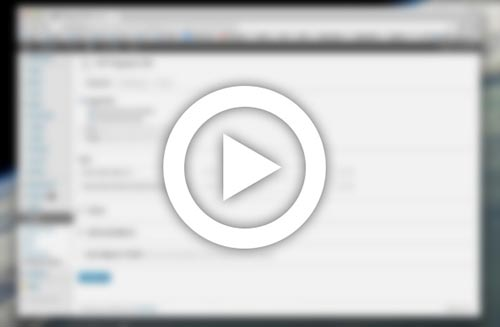
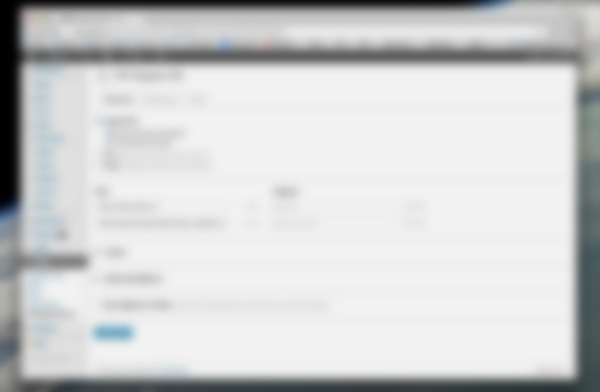
Refine video image style.

Changed region(s): [[0.3, 0.3058, 0.69, 0.7034], [0.36, 0.6728, 0.6, 0.7951], [0.39, 0.2446, 0.63, 0.367]]

diff --git a/asset/css/styles.css b/asset/css/styles.css
@@ -81,6 +81,47 @@ p.submit img {
 #wpmdb-sidebar .author p {
   margin: 0;
 }
+#wpmdb-sidebar .video {
+  position: relative;
+  display: block;
+}
+#wpmdb-sidebar .video:before, #wpmdb-sidebar .video:after {
+  position: absolute;
+  content: " ";
+  margin: auto;
+  left: 0;
+  right: 0;
+  top: 0;
+  bottom: 0;
+}
+#wpmdb-sidebar .video:before {
+  width: 60px;
+  height: 60px;
+  -webkit-border-radius: 60px;
+  -moz-border-radius: 60px;
+  -ms-border-radius: 60px;
+  -o-border-radius: 60px;
+  border-radius: 60px;
+  filter: progid:DXImageTransform.Microsoft.Alpha(Opacity=80);
+  opacity: 0.8;
+  border: 1px solid #ddd;
+  background-color: #fff;
+  z-index: 2;
+}
+#wpmdb-sidebar .video:after {
+  filter: progid:DXImageTransform.Microsoft.Alpha(Opacity=80);
+  opacity: 0.8;
+  border: 20px solid transparent;
+  border-top-width: 12px;
+  border-bottom-width: 12px;
+  border-left-color: #333;
+  background: transparent;
+  display: block;
+  left: 23.4375px;
+  width: 0px;
+  height: 0px;
+  z-index: 3;
+}
 #wpmdb-sidebar .subscribe h2 {
   padding: 0;
   margin: 0;

diff --git a/asset/sass/styles.scss b/asset/sass/styles.scss
@@ -1,3 +1,5 @@
+@import "compass";
+
 #migrate-form {
 	padding-top: 10px;
 }
@@ -91,6 +93,46 @@ p.submit {
 
 		p {
 			margin: 0;
+		}
+	}
+
+	.video {
+		position: relative;
+		display: block;
+		$size: 60px;
+
+		&:before, &:after {
+		    position: absolute;
+		    content: " ";
+		    margin: auto;
+		    left: 0;
+		    right: 0;
+		    top: 0;
+		    bottom: 0;
+		}
+
+		&:before {
+		    width: $size;
+		    height: $size;
+		    @include border-radius($size);
+		    @include opacity(0.8);
+		    border: 1px solid #ddd;
+		    background-color: #fff;
+		    z-index: 2;
+		}
+
+		&:after {
+			@include opacity(0.8);
+		    border: $size/3 solid transparent;
+		    border-top-width: $size/5;
+		    border-bottom-width: $size/5;
+		    border-left-color: #333;
+		    background: transparent;
+		    display: block;
+		    left: $size/2.56;
+		    width: 0px;
+		    height: 0px;
+		    z-index: 3;
 		}
 	}
 
